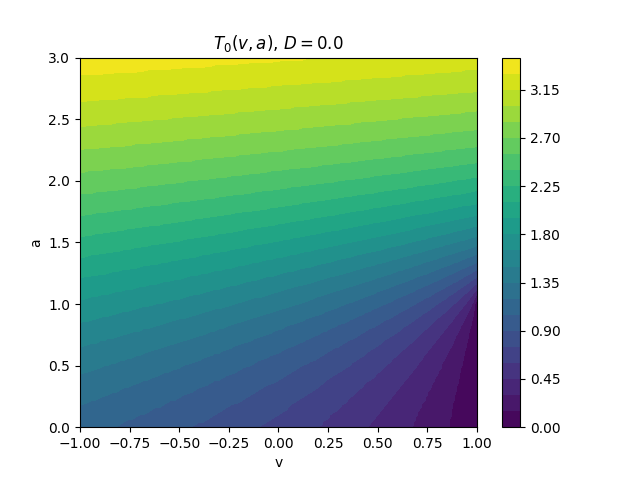
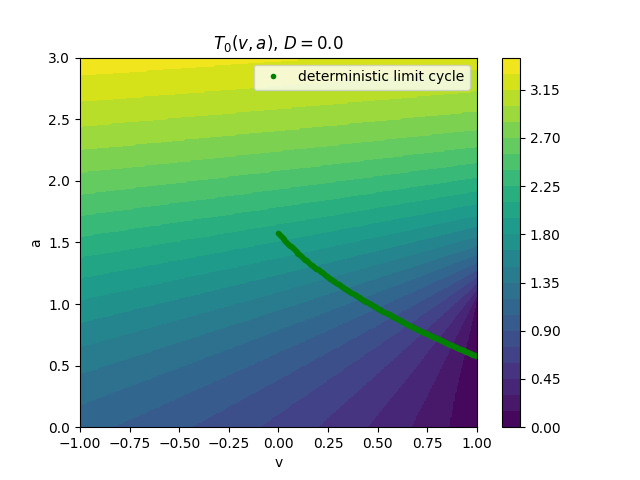
more plots

diff --git a/mrt_phase_pde/pde/own_method/extract_curves_from_T_N/extract_curves.py b/mrt_phase_pde/pde/own_method/extract_curves_from_T_N/extract_curves.py
@@ -5,6 +5,7 @@ import matplotlib.pyplot as plt
 from mrt_phase_numeric.src.DataTypes.DataTypes import filepaths
 from mrt_phase_numeric.src.util.save_util import read_curve_from_file
 from mrt_phase_pde.pde.own_method.T_bar import T_bar
+from mrt_phase_pde.pde.own_method.src.T_0.T_N import T_N
 
 limit_cycle_file_path = filepaths['limit_cycle_path']
 limit_cycle = read_curve_from_file(limit_cycle_file_path)
@@ -18,7 +19,7 @@ def find_nearest(array, value):
         return idx
 
 
-def get_curve_from_cs(cs):
+def get_curves_from_cs(cs):
     all_curves = []
     for collection in cs.collections:
         p = collection.get_paths()[0]
@@ -31,27 +32,41 @@ def get_curve_from_cs(cs):
 phi_ = np.linspace(0.0, 0.9, 10)
 
 
-def get_curve_for_T_N(T_N, D):
-    levels = []
-    for phi in phi_:
-        point = limit_cycle[int(np.floor((phi * (len(limit_cycle) - 1)))), :]
+def get_levels(T_N: T_N, D: float, type=None):
+    if D == 0.0 or type == 'deterministic':
+        levels = []
+        for phi in phi_:
+            point = limit_cycle[int(np.floor((phi * (len(limit_cycle) - 1)))), :]
 
-        idx_v = find_nearest(T_N.v, point[0])
-        idx_a = find_nearest(T_N.a, point[1])
+            idx_v = find_nearest(T_N.v, point[0])
+            idx_a = find_nearest(T_N.a, point[1])
 
-        level = T_N[idx_v, idx_a]
-        level_2 = level + T_bar[D]
-        level_1 = level - T_bar[D]
+            level = T_N[idx_v, idx_a]
+            level_2 = level + T_bar[D]
+            level_1 = level - T_bar[D]
 
-        levels.append(level)
-        levels.append(level_2)
-        if level_1 > np.min(T_N.T):
-            levels.append(level_1)
+            levels.append(level)
+            levels.append(level_2)
+            if level_1 > np.min(T_N.T):
+                levels.append(level_1)
 
-    levels = np.sort(levels)
+        levels = np.sort(levels)
+    else:
+        min_T = np.min(T_N.T)
+        max_T = np.max(T_N.T)
+        mean_T = T_bar[D]
+
+        stepsize = np.diff(phi_)[0]
+        levels = np.arange(min_T, max_T, mean_T * stepsize)
+
+    return levels
+
+
+def get_curve_for_T_N(T_N: T_N, D: float, type=None):
+    levels = get_levels(T_N, D, type=type)
 
     __x, __y = np.meshgrid(T_N.v, T_N.a)
     cs = plt.contour(__x, __y, T_N.T.transpose(), levels=np.sort(levels)[1:])  # , v_min=-30, v_max=30)
-    all_curves = get_curve_from_cs(cs)
+    all_curves = get_curves_from_cs(cs)
 
     return all_curves

diff --git a/mrt_phase_pde/pde/own_method/extract_curves_from_T_N/compare_two_curves.py b/mrt_phase_pde/pde/own_method/extract_curves_from_T_N/compare_two_curves.py
@@ -1,39 +1,49 @@
 import matplotlib.pyplot as plt
+import numpy as np
 
 from mrt_phase_pde.pde.own_method.src.T_0.T_N import T_N as T_N_class
 from mrt_phase_numeric.src.DataTypes.DataTypes import filepaths
 from mrt_phase_numeric.src.util.save_util import read_curve_from_file
 from scipy.signal import savgol_filter
 from mrt_phase_pde.pde.own_method.extract_curves_from_T_N.extract_curves import get_curve_for_T_N
+from config import equation_config
+
+mu = equation_config['mu']
+v_th = equation_config['v_th']
+tau_a = equation_config['tau_a']
+delta_a = equation_config['delta_a']
 
 limit_cycle_file_path = filepaths['limit_cycle_path']
 limit_cycle = read_curve_from_file(limit_cycle_file_path)
 
-D_list = [0.0, 0.1, 0.25]
+D_list = [0.5, 1.0]
 
 if __name__ == '__main__':
 
     plt.figure()
-    draw_style = ['b-', 'r-', 'm-'] #, 'm:', 'c.' ]
+    draw_style = ['b-', 'r--', 'm-'] #, 'm:', 'c.' ]
 
     for j, D in enumerate(D_list):
         T_N = T_N_class.load(f'..\\result\\T_N_6_D_{D}.pickle')
-        T_N_curves = get_curve_for_T_N(T_N, D)
+        T_N_curves = get_curve_for_T_N(T_N, D )#, type='deterministic')
 
         for i, curve in enumerate(T_N_curves):
-            curve[:, 1] = savgol_filter(curve[:, 1], len(curve), 4)
+            curve[:, 1] = savgol_filter(curve[:, 1], len(curve), np.min([5, len(curve)]) - 1)
 
             if i == 0:
                 plt.plot(curve[:, 0], curve[:, 1], draw_style[j], label=f'D={D}')
             else:
                 plt.plot(curve[:, 0], curve[:, 1], draw_style[j])
 
-    plt.plot(limit_cycle[:, 0], limit_cycle[:, 1], 'g.', label='limit cycle')
+    plt.plot(limit_cycle[:, 0], limit_cycle[:, 1], 'g.', label='deterministic limit cycle')
 
     plt.xlabel('v')
     plt.ylabel('a')
-    plt.ylim([0, 4])
-    plt.title(f'Isochrones')
+    plt.ylim([0, 3])
+    plt.title(f'Isochrones for $\mu={mu}$, $\\tau_a={tau_a}$, $\Delta_a={delta_a}$')
+    # plt.title(f'$D={D}$, ')
     plt.legend()
 
     plt.show()
+
+    plt.savefig(f'img\\isochrones_comparison_D_{D_list}.png')

diff --git a/mrt_phase_pde/pde/own_method/extract_curves_from_T_N/plot_curves_from_T_N_stochastic.py b/mrt_phase_pde/pde/own_method/extract_curves_from_T_N/plot_curves_from_T_N_stochastic.py
@@ -20,7 +20,7 @@ delta_a = equation_config['delta_a']
 limit_cycle_file_path = filepaths['limit_cycle_path']
 limit_cycle = read_curve_from_file(limit_cycle_file_path)
 
-D = 1.0
+D = 0.1
 
 
 def find_nearest(array, value):
@@ -36,7 +36,7 @@ if __name__ == '__main__':
 
     T_N = T_N_class.load(f'..\\result\\T_N_6_D_{D}.pickle')
 
-    curves = get_curve_for_T_N(T_N, D, type='deterministic')
+    curves = get_curve_for_T_N(T_N, D)
 
     __x, __y = np.meshgrid(T_N.v, T_N.a)
 
@@ -59,16 +59,17 @@ if __name__ == '__main__':
     plt.legend()
 
     # plt.savefig(f'img\\isochrones_for_D_{D}_comparison_numeric_isochrones.png')
+    plt.savefig(f'img\\isochrones_for_D_{D}.png')
 
     det_file_paths = '..\\..\\..\\..\\mrt_phase_numeric\\data\\results\\isochrones\\from_timeseries_grid\\deterministic\\D_0.0'
     stochastic = f'..\\..\\..\\..\\mrt_phase_numeric\\data\\results\\isochrones\\from_timeseries\\stochastic\\D_{D}'
 
-    if D == 0.0:
-        isochrones = load_isochrones(det_file_paths)
-    else:
-        isochrones = load_isochrones(stochastic)
-
-    plot_isochrones(isochrones, plt, 'g--')
+    # if D == 0.0:
+    #     isochrones = load_isochrones(det_file_paths)
+    # else:
+    #     isochrones = load_isochrones(stochastic)
+    #
+    # plot_isochrones(isochrones, plt, 'g--')
 
     handles, labels = plt.gca().get_legend_handles_labels()
     by_label = OrderedDict(zip(labels, handles))

diff --git a/mrt_phase_pde/pde/own_method/plot_T_N/compare_sim_and_own_method.py b/mrt_phase_pde/pde/own_method/plot_T_N/compare_sim_and_own_method.py
@@ -52,14 +52,16 @@ for i in range(0, 6):
     # plt.savefig(f'img\\compare_T_{n_1}_with_T_{n_2}_D_{D}.png')
 
 
-plt.plot(diff_mean, label='mean($T_N(v,a) - T_{N-1}(v,a)$)')
-plt.plot(diff_min, label='min($T_N(v,a) - T_{N-1}(v,a)$)')
-plt.plot(diff_max, label='max($T_N(v,a) - T_{N-1}(v,a)$)')
-plt.plot(np.array(diff_mean) + np.array(diff_std), '--', label='mean + std')
-plt.plot(np.array(diff_mean) - np.array(diff_std), '--', label='mean - std')
+plt.plot(diff_mean, label='mean(d)')
+plt.plot(diff_min, label='min(d)')
+plt.plot(diff_max, label='max(d)')
+plt.plot(np.array(diff_mean) + np.array(diff_std), '--', label='mean(d) + std(d)')
+plt.plot(np.array(diff_mean) - np.array(diff_std), '--', label='mean(d) - std(d)')
 plt.xlabel('N')
-plt.ylabel('diff')
+plt.ylabel('$T_N(v,a) - T_{N,sim}(v,a)$')
+plt.ylim([-0.1, 0.1])
 plt.legend()
-plt.title(f'$D = {D}$')
+plt.title(f'$D = {D}$,\n mean, max , min and std (Standard Deviation)\n of $d = T_N(v,a) - T_{{N,sim}}(v,a)$')
+plt.tight_layout()
 
 plt.savefig(f'..\\img\\T_N_vs_T_sim_over_time_D_{D}.png')

diff --git a/mrt_phase_pde/pde/own_method/plot_T_N/plot_T_N.py b/mrt_phase_pde/pde/own_method/plot_T_N/plot_T_N.py
@@ -13,7 +13,7 @@ tau_a = equation_config['tau_a']
 Delta_a = equation_config['delta_a']
 
 D = 0.0
-N = 1
+N = 6
 
 
 if __name__ == '__main__':
@@ -41,15 +41,15 @@ if __name__ == '__main__':
     plt.ylabel('a')
     plt.ylim([0, a_max_plot])
     plt.title(
-        f'$T_{{{N}}}(v,a)$, $D={D}$')
+        f'$T_{{{N}}}(v,a)$ via simulation, $D={D}$')
         # f'\n $v_{{thr}}={v_th}$, $\\mu={mu}$, $\\tau_a={tau_a}$, $\\Delta_a={Delta_a}$')
 
-    # plt.savefig(f'img\\comparision_to_numerics_T_N_D_{D}.png')
+    plt.savefig(f'..\\img\\comparision_to_numerics_T_N_{N}_D_{D}_from_simulation.png')
 
     det_file_paths = '../../../../mrt_phase_numeric/data/results/isochrones/from_timeseries_grid/deterministic/D_0.0'
     stochastic = f'..\\..\\..\\mrt_phase_numeric\\data\\results\\isochrones\\from_timeseries\\stochastic\\D_{D}'
 
-    isochrones = load_isochrones(det_file_paths)
+    # isochrones = load_isochrones(det_file_paths)
     # isochrones = load_isochrones(stochastic)
     # plot_isochrones(isochrones, plt, 'g--')
     plt.xlim([-1,1])

diff --git a/mrt_phase_pde/pde/own_method/src/get_T_0_and_exit_point_distribution.py b/mrt_phase_pde/pde/own_method/src/get_T_0_and_exit_point_distribution.py
@@ -21,8 +21,8 @@ v_max = 1.0
 a_min = 0
 a_max = 10
 
-n_v = int((v_max - v_min)) * 20 + 1
-n_a = int((a_max - a_min)) * 20 + 1
+n_v = int((v_max - v_min)) * 100 + 1
+n_a = int((a_max - a_min)) * 100 + 1
 
 # n_v = 20
 # n_a = 40
@@ -33,7 +33,7 @@ a = np.linspace(a_min, a_max, n_a)
 v_thr = 1.0
 n_trajectories = 1
 
-n_thr_crossings = 3
+n_thr_crossings = 1
 
 
 def find_nearest(array, value):
@@ -125,8 +125,8 @@ if __name__=='__main__':
     T_0_ = T_0(v, a, T)
     T_0_.save(f'..\\data\\T_{n_thr_crossings - 1}_D_{D}_sim_n_thr_{n_thr_crossings}.pickle')
 
-    # exit_point_distribution = ExitPointDistribution(v, a, prob)
-    # exit_point_distribution.save(f'..\\data\\epd_sim_D_{D}.pickle')
+    exit_point_distribution = ExitPointDistribution(v, a, prob)
+    exit_point_distribution.save(f'..\\data\\epd_sim_D_{D}.pickle')
 
     __x, __y = np.meshgrid(v, a)
 

diff --git a/mrt_phase_pde/pde/MFPT/MFPT_problem_from_cao.py b/mrt_phase_pde/pde/MFPT/MFPT_problem_from_cao.py
@@ -80,12 +80,20 @@ def get_A_b():
 
             b[i] = 0
 
-        elif i in right[0]:
+        elif i in right[0] and y_ <= mu - v_th:
             idx_left = np.where((x_all == x[idx_x_low]) & (y_all == y_))
             # row[idx_left] = D / h ** 2
 
             # row[idx_left] = -1
             row[i] = 1
+
+            b[i] = 0
+
+        elif i in right[0] and y_ > mu - v_th:
+            idx_left = np.where((x_all == x[idx_x_low]) & (y_all == y_))
+
+            row[i] = -1
+            row[idx_left] = 1
 
             b[i] = 0
 

diff --git a/mrt_phase_numeric/isochrones/plot_isochrones/plot_util.py b/mrt_phase_numeric/isochrones/plot_isochrones/plot_util.py
@@ -57,6 +57,7 @@ def plot_isochrones(isochrones_list, plt, draw=None):
         for i, curve in enumerate(curves):
             if curve.points.any():
                 if draw:
-                    plt.plot(curve[:, 0], curve[:, 1], draw)
+                    # plt.plot(curve[:, 0], curve[:, 1], draw, label='numeric isochonres')
+                    plt.plot(curve[:, 0], curve[:, 1], draw, label='numeric isochrones')
                 else:
                     plt.plot(curve[:, 0], curve[:, 1])

diff --git a/mrt_phase_numeric/src/limit_cycle/get_mean_cycle_time_and_basic_plots.py b/mrt_phase_numeric/src/limit_cycle/get_mean_cycle_time_and_basic_plots.py
@@ -110,10 +110,10 @@ def get_ISI_():
 
 
 if __name__ == '__main__':
-    plot_basic()
+    # plot_basic()
 
-    # ISI, mean_ISI, mean_cycle_time = get_ISI_()
-    #
-    # print('mean ISI: ', mean_ISI)
-    # print('mean_cycle_time: ', mean_cycle_time)
+    ISI, mean_ISI, mean_cycle_time = get_ISI_()
+
+    print('mean ISI: ', mean_ISI)
+    print('mean_cycle_time: ', mean_cycle_time)
 

diff --git a/config.py b/config.py
@@ -9,9 +9,9 @@ equation_config = {
         0.05: 1.919592979127135,
         0.1: 1.8883182,
         0.2: 1.770536,
-        0.25: 2.0,
+        0.25: 1.7264240000000002,
         0.5: 1.77,
-        1.0: 1.40,
+        1.0: 1.385671,
         2.0: 1.2,
     },
     'tol': 0.001,

diff --git a/mrt_phase_pde/pde/own_method/T_bar.py b/mrt_phase_pde/pde/own_method/T_bar.py
@@ -1,7 +1,7 @@
 T_bar = {
-    0.0: 2.019999999999995,
+    0.0: 2.0199579848907203,
     0.1: 1.8661427154820158,
-    0.25: 1.7319711270179947,
+    0.25: 1.7264240000000002, #1.7319711270179947,
     0.5: 1.5783606654632267,
     1.0: 1.3958529069162797,
 }

diff --git a/mrt_phase_numeric/isochrones/plot_isochrones/plot_isochrones.py b/mrt_phase_numeric/isochrones/plot_isochrones/plot_isochrones.py
@@ -65,7 +65,7 @@ def load_isochrones(data_location):
 
 
 def plot_isochrones(isochrones_list):
-    # exclude = ['phi_0.4']
+      # exclude = ['phi_0.4']
     # exclude = ['phi_0.6']
     exclude = []
 
